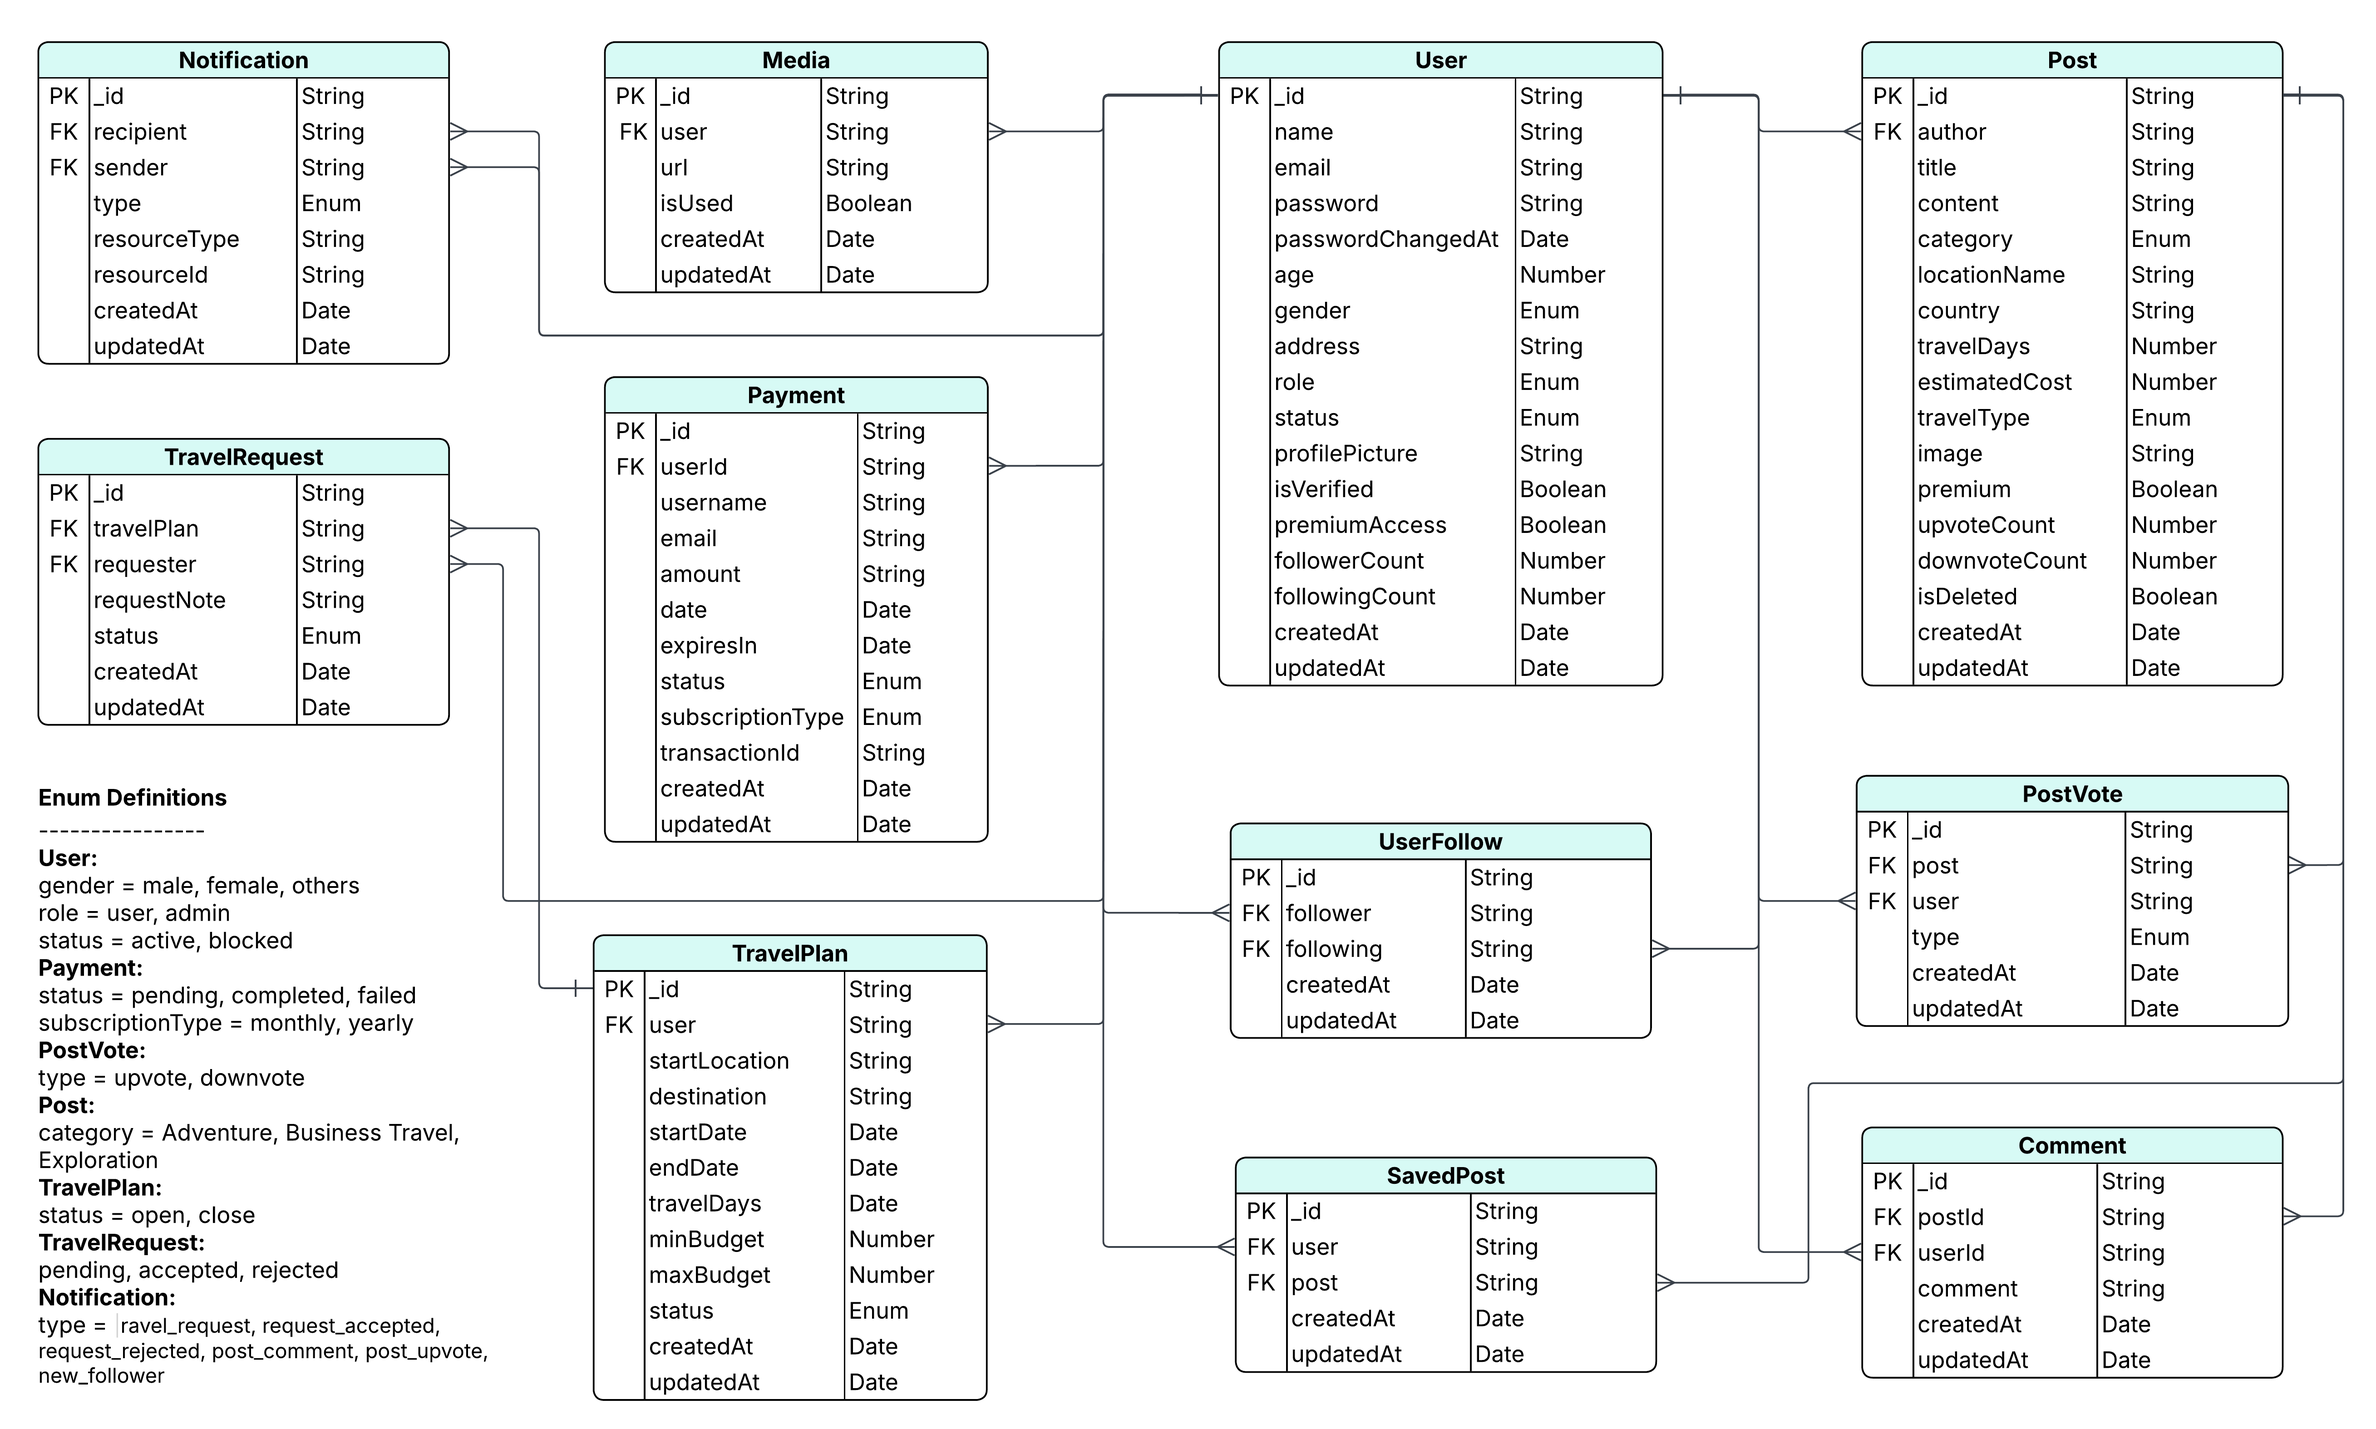
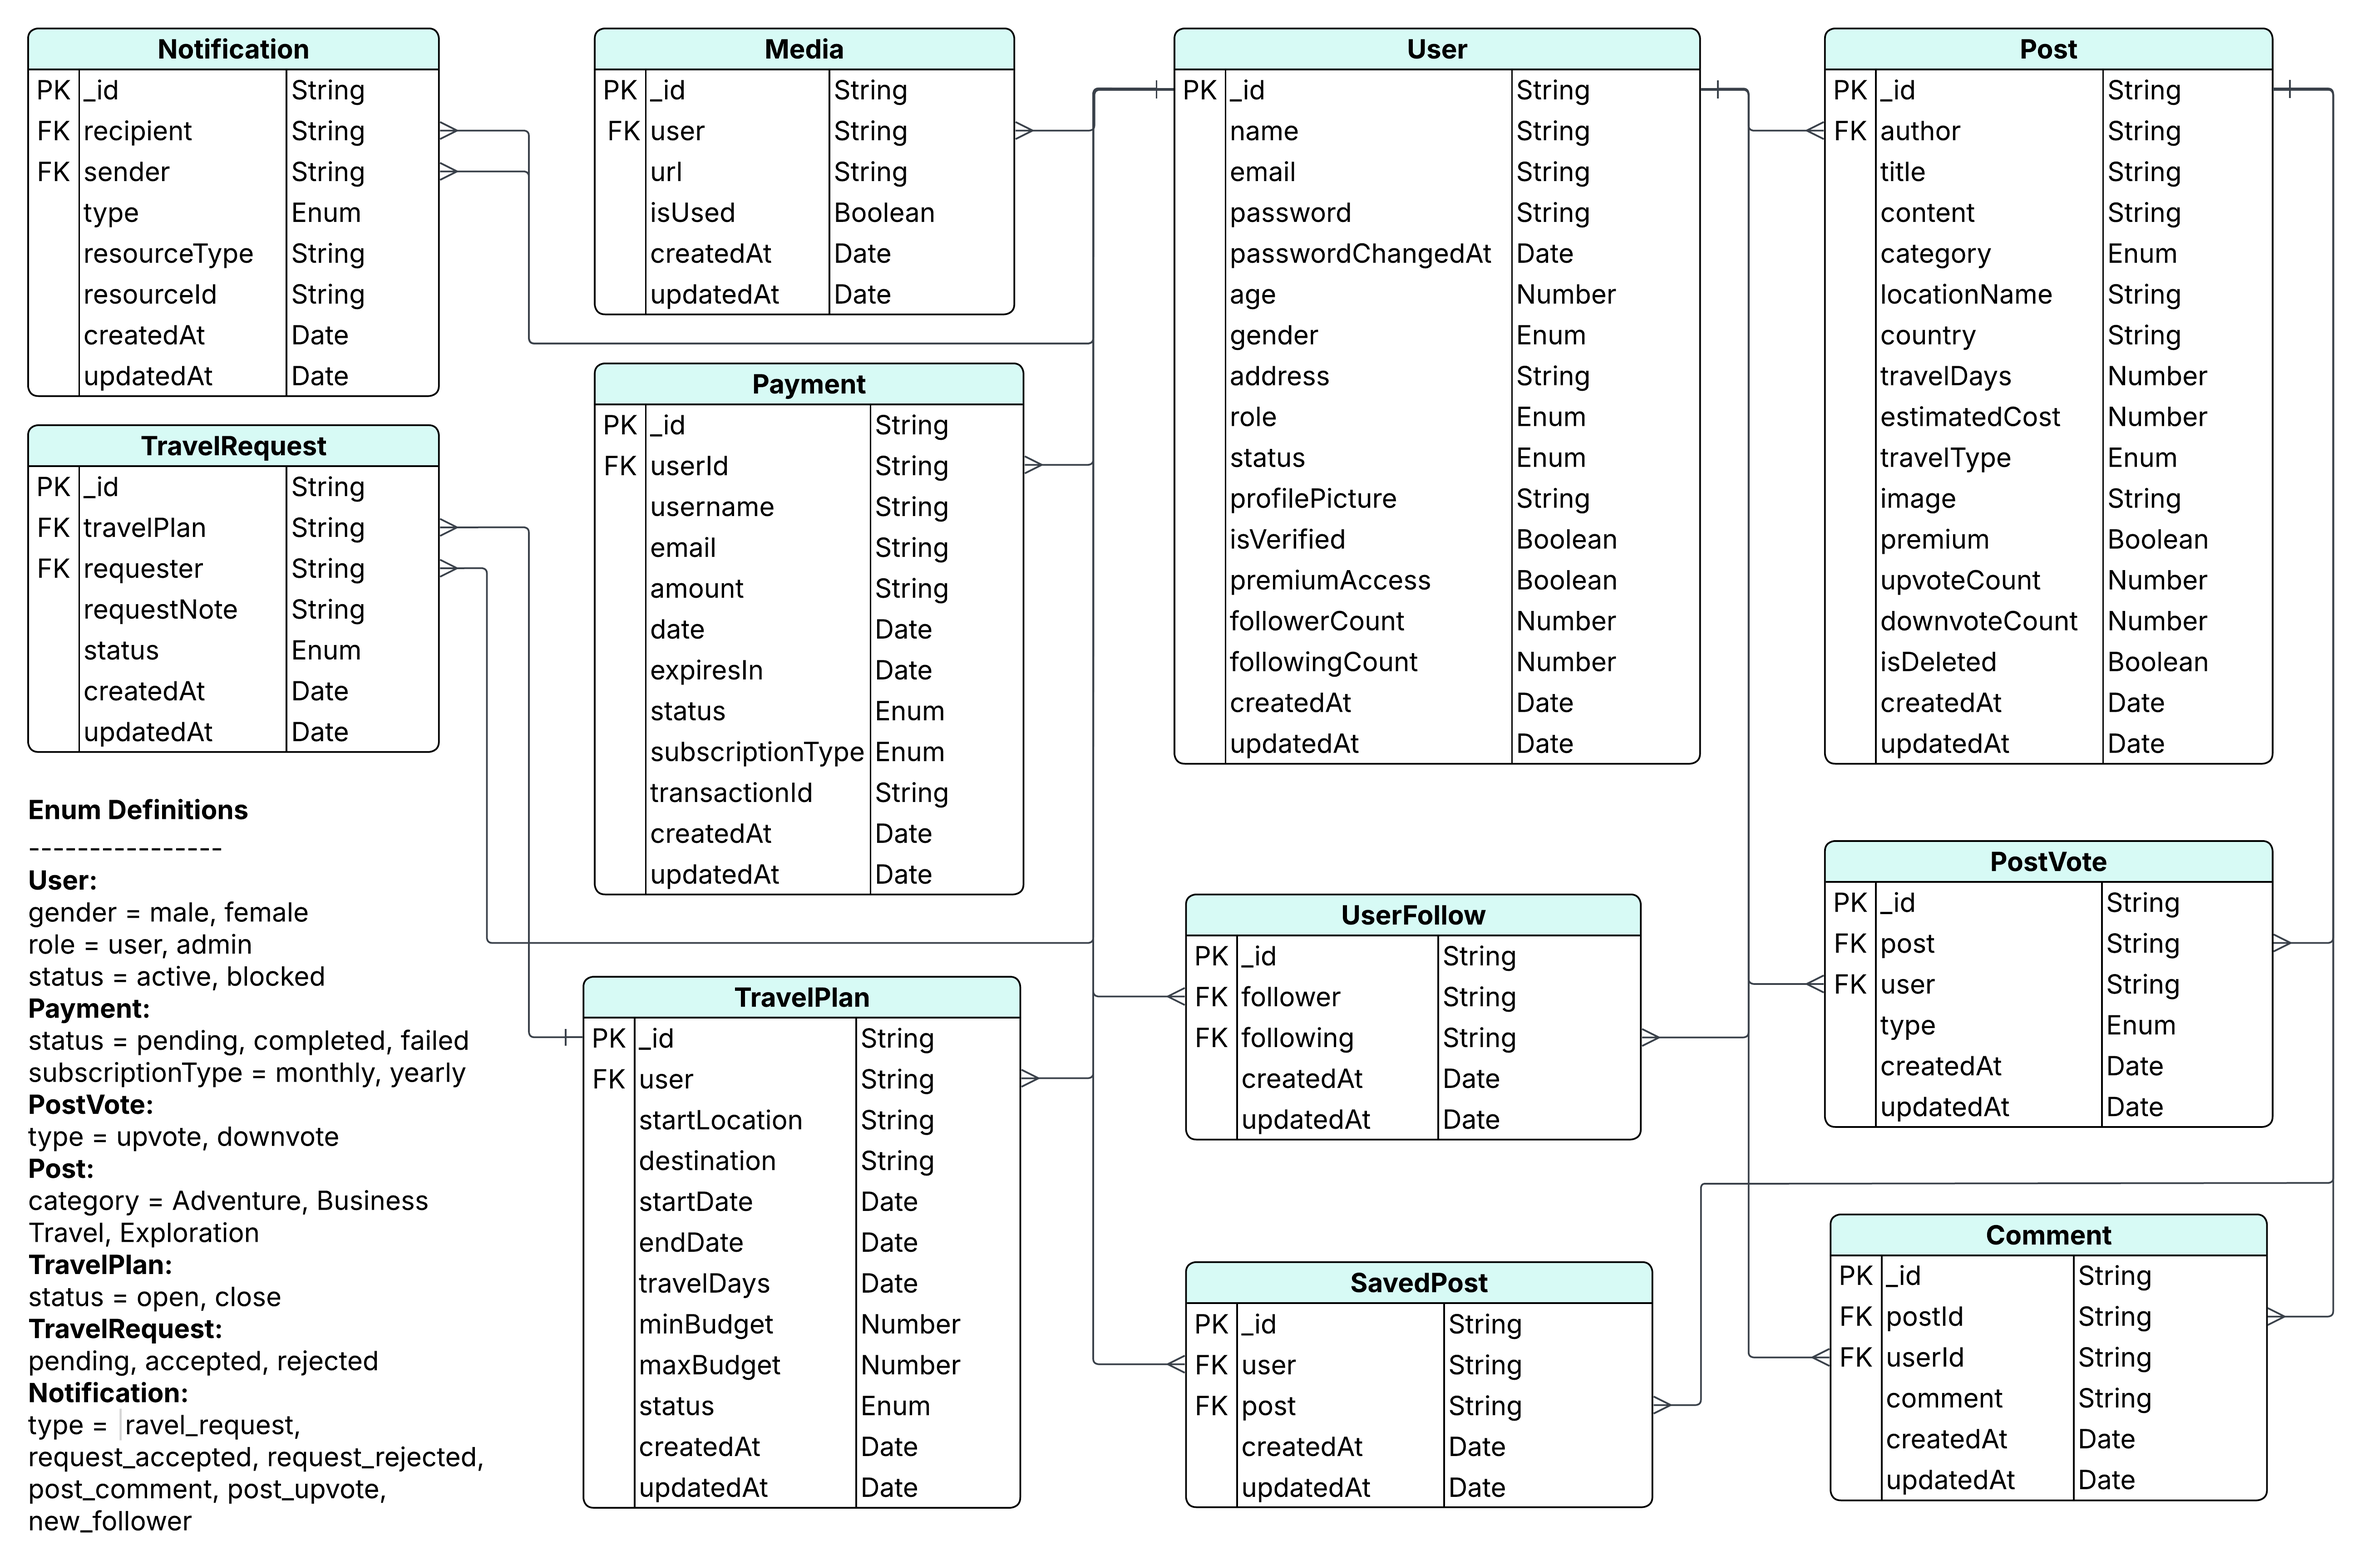
feat: Added data-model docs and updated ER Diagram

diff --git a/docs/mata-model.md b/docs/mata-model.md
@@ -1,0 +1,198 @@
+# Data Model
+
+This document describes the core entities of the Travel Sharing Platform database.
+
+### Enum Definitions:
+
+**User**: gender = `male`, `female` role = `user`, `admin` status = `active`, `blocked`
+
+**Post**: category = `Adventure`, `Business Travel`, `Exploration`
+
+**Payment**: status = `pending`, `completed`, `failed`
+subscriptionType = `monthly`, `yearly`
+
+**PostVote**: type = `upvote`, `downvote`
+
+**TravelPlan**: status = `open`, `close`
+
+**TravelRequest**: `pending`, `accepted`, `rejected`
+
+**Notification**: type = `ravel_request`, `request_accepted`, `request_rejected`, `post_comment`, `post_upvote`, `new_follower`
+
+## User
+
+Represents a platform member who can create posts, travel plans, follow others, and interact with content.
+
+| Field             | Type    | Description                         |
+| ----------------- | ------- | ----------------------------------- |
+| \_id (PK)         | String  | Unique identifier for the user      |
+| name              | String  | Full name of the user               |
+| email             | String  | Unique email address                |
+| password          | String  | Hashed password                     |
+| passwordChangedAt | Date    | Last password change timestamp      |
+| age               | Number  | User age                            |
+| gender            | Enum    | male, female                        |
+| address           | String  | User address                        |
+| role              | Enum    | user, admin                         |
+| status            | Enum    | active, blocked                     |
+| profilePicture    | String  | Profile image URL                   |
+| isVerified        | Boolean | User blue badge verification status |
+| premiumAccess     | Boolean | Premium subscription status         |
+| followerCount     | Number  | Number of followers                 |
+| followingCount    | Number  | Number of users followed            |
+| createdAt         | Date    | Account creation timestamp          |
+| updatedAt         | Date    | Last update timestamp               |
+
+## Post
+
+Stores user-generated travel content, experiences, or stories shared publicly on the platform.
+
+| Field              | Type    | Description                               |
+| ------------------ | ------- | ----------------------------------------- |
+| \_id (PK)          | String  | Unique post identifier                    |
+| author (FK → User) | String  | Post creator                              |
+| title              | String  | Post title                                |
+| content            | String  | Post content                              |
+| category           | Enum    | Adventure, Business Travel, Exploration   |
+| locationName       | String  | Travel location name                      |
+| country            | String  | Country name                              |
+| travelDays         | Number  | Duration of travel                        |
+| estimatedCost      | Number  | Estimated travel cost                     |
+| travelType         | Enum    | Type of travel (budget, midrange, luxury) |
+| image              | String  | Cover image URL                           |
+| premium            | Boolean | Premium post flag                         |
+| upvoteCount        | Number  | Total upvotes                             |
+| downvoteCount      | Number  | Total downvotes                           |
+| isDeleted          | Boolean | Soft delete flag                          |
+| createdAt          | Date    | Creation timestamp                        |
+| updatedAt          | Date    | Last update timestamp                     |
+
+## Comment
+
+Represents user comments on posts, enabling discussion and interaction around shared content.
+
+| Field            | Type   | Description               |
+| ---------------- | ------ | ------------------------- |
+| \_id (PK)        | String | Unique comment identifier |
+| post (FK → Post) | String | Associated post           |
+| user (FK → User) | String | Comment author            |
+| comment          | String | Comment text              |
+| createdAt        | Date   | Creation timestamp        |
+| updatedAt        | Date   | Last update timestamp     |
+
+## PostVote
+
+Tracks user reactions (upvote/downvote) to posts for ranking and engagement metrics.
+
+| Field            | Type   | Description            |
+| ---------------- | ------ | ---------------------- |
+| \_id (PK)        | String | Unique vote identifier |
+| post (FK → Post) | String | Voted post             |
+| user (FK → User) | String | Voting user            |
+| type             | Enum   | upvote, downvote       |
+| createdAt        | Date   | Creation timestamp     |
+| updatedAt        | Date   | Last update timestamp  |
+
+## SavedPost
+
+Stores posts bookmarked by users for future reference or inspiration.
+
+| Field            | Type   | Description                  |
+| ---------------- | ------ | ---------------------------- |
+| \_id (PK)        | String | Unique saved post identifier |
+| user (FK → User) | String | User who saved the post      |
+| post (FK → Post) | String | Saved post                   |
+| createdAt        | Date   | Creation timestamp           |
+| updatedAt        | Date   | Last update timestamp        |
+
+## UserFollow
+
+Represents the relationship where one user subscribes to another user’s updates.
+
+| Field                 | Type   | Description                   |
+| --------------------- | ------ | ----------------------------- |
+| \_id (PK)             | String | Unique follow relationship ID |
+| follower (FK → User)  | String | User who follows              |
+| following (FK → User) | String | User being followed           |
+| createdAt             | Date   | Creation timestamp            |
+| updatedAt             | Date   | Last update timestamp         |
+
+## TravelPlan
+
+Represents a user-created travel itinerary including destination, dates, and budget to find matching partner.
+
+| Field            | Type   | Description                   |
+| ---------------- | ------ | ----------------------------- |
+| \_id (PK)        | String | Unique travel plan identifier |
+| user (FK → User) | String | Creator of the plan           |
+| startLocation    | String | Starting location             |
+| destination      | String | Travel destination            |
+| startDate        | Date   | Travel start date             |
+| endDate          | Date   | Travel end date               |
+| travelDays       | Date   | Total travel days             |
+| minBudget        | Number | Minimum budget                |
+| maxBudget        | Number | Maximum budget                |
+| status           | Enum   | open, close                   |
+| createdAt        | Date   | Creation timestamp            |
+| updatedAt        | Date   | Last update timestamp         |
+
+## TravelRequest
+
+Tracks requests from users who want to join a specific travel plan and their approval status.
+
+| Field                        | Type   | Description                 |
+| ---------------------------- | ------ | --------------------------- |
+| \_id (PK)                    | String | Unique request identifier   |
+| travelPlan (FK → TravelPlan) | String | Requested travel plan       |
+| requester (FK → User)        | String | User who sent request       |
+| requestNote                  | String | A message from requester    |
+| status                       | Enum   | pending, accepted, rejected |
+| createdAt                    | Date   | Creation timestamp          |
+| updatedAt                    | Date   | Last update timestamp       |
+
+## Media
+
+Stores images or files attached to posts or travel plans.
+
+| Field            | Type    | Description                          |
+| ---------------- | ------- | ------------------------------------ |
+| \_id (PK)        | String  | Unique media identifier              |
+| user (FK → User) | String  | Owner of the media                   |
+| url              | String  | Media file URL                       |
+| isUsed           | Boolean | Whether media is attached to content |
+| createdAt        | Date    | Creation timestamp                   |
+| updatedAt        | Date    | Last update timestamp                |
+
+## Payment
+
+Records transactions made by users for premium features or services.
+
+| Field              | Type   | Description                    |
+| ------------------ | ------ | ------------------------------ |
+| \_id (PK)          | String | Unique payment identifier      |
+| userId (FK → User) | String | Paying user                    |
+| username           | String | Username at time of payment    |
+| email              | String | Email at time of payment       |
+| amount             | String | Payment amount                 |
+| date               | Date   | Payment date                   |
+| expiresIn          | Date   | Subscription expiry date       |
+| status             | Enum   | pending, completed, failed     |
+| subscriptionType   | Enum   | monthly, yearly                |
+| transactionId      | String | Payment gateway transaction ID |
+| createdAt          | Date   | Creation timestamp             |
+| updatedAt          | Date   | Last update timestamp          |
+
+## Notification
+
+Stores system alerts that inform users about important events like requests, comments, follows and so on.
+
+| Field                 | Type   | Description                     |
+| --------------------- | ------ | ------------------------------- |
+| \_id (PK)             | String | Unique notification identifier  |
+| recipient (FK → User) | String | User receiving notification     |
+| sender (FK → User)    | String | User who triggered notification |
+| type                  | Enum   | Notification events type        |
+| resourceType          | String | Related resource type           |
+| resourceId            | String | Related resource ID             |
+| createdAt             | Date   | Creation timestamp              |
+| updatedAt             | Date   | Last update timestamp           |
